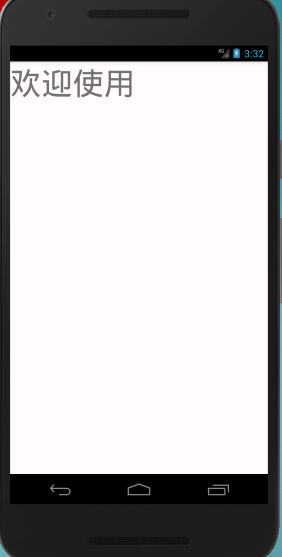
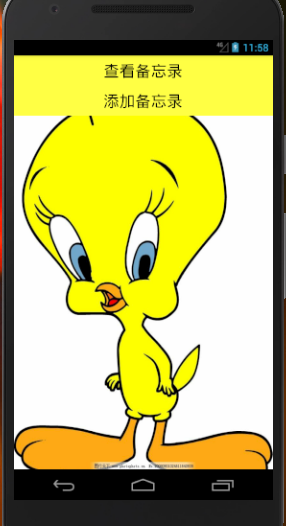
#4 the fourth lab

diff --git a/soft1614080902428/java/Soft1614080902428activityMain2Activity.java b/soft1614080902428/java/Soft1614080902428activityMain2Activity.java
@@ -16,6 +16,23 @@ public class Soft1614080902428activityMain2Activity extends AppCompatActivity {
     protected void onCreate(Bundle savedInstanceState) {
         super.onCreate(savedInstanceState);
         setContentView(R.layout.soft1614080902428activity_main2);
+        Button button1=(Button) findViewById( R.id.btn1_editnote);
+        button1.setOnClickListener(new View.OnClickListener(){
+            @Override
+            public void onClick(View v) {
+                Intent intent=new Intent(Soft1614080902428activityMain2Activity.this,chakan.class);
+                startActivity(intent);
+            }
+        });
+        Button button2=(Button)findViewById(R.id.btn2_editnote);
+        button2.setOnClickListener(new View.OnClickListener(){
+            @Override
+            public void onClick(View v) {
+                Intent intent=new Intent();
+                intent.setClass(Soft1614080902428activityMain2Activity.this,xiugai.class);
+                startActivity(intent);
+            }
+        });
     }
 
 }

diff --git a/soft1614080902428/java/xiugai.java b/soft1614080902428/java/xiugai.java
@@ -1,0 +1,18 @@
+package com.hzu.edu.myapplication;
+
+import android.os.Bundle;
+import android.support.design.widget.FloatingActionButton;
+import android.support.design.widget.Snackbar;
+import android.support.v7.app.AppCompatActivity;
+import android.support.v7.widget.Toolbar;
+import android.view.View;
+
+public class xiugai extends AppCompatActivity {
+
+    @Override
+    protected void onCreate(Bundle savedInstanceState) {
+        super.onCreate(savedInstanceState);
+        setContentView(R.layout.activity_xiugai);
+    }
+
+}

diff --git a/soft1614080902428/java/Soft1614080902428activityMain1Activity.java b/soft1614080902428/java/Soft1614080902428activityMain1Activity.java
@@ -14,7 +14,7 @@ public class Soft1614080902428activityMain1Activity extends AppCompatActivity {
         super.onCreate(savedInstanceState);
         setContentView(R.layout.soft1614080902428activity_main1);
         final Activity thisActivity=this;
-        Button btnHome=(Button) findViewById(R.id.btn01);
+        Button btnHome=(Button) findViewById( R.id.btn01);
         btnHome.setOnClickListener(new View.OnClickListener(){
             @Override
             public void onClick(View v) {

diff --git a/soft1614080902428/java/chakan.java b/soft1614080902428/java/chakan.java
@@ -1,0 +1,14 @@
+package com.hzu.edu.myapplication;
+
+import android.os.Bundle;
+import android.support.v7.app.AppCompatActivity;
+
+public class chakan extends AppCompatActivity {
+
+    @Override
+    protected void onCreate(Bundle savedInstanceState) {
+        super.onCreate(savedInstanceState);
+        setContentView(R.layout.activity_chakan);
+    }
+
+}

diff --git a/soft1614080902428/#3 第三次实验报告.md b/soft1614080902428/#3 第三次实验报告.md
@@ -1,27 +1,25 @@
 # 第三次实验 
+掌握在Android应用中使用图片等资源的方法。
 ## 1. 实验目标
- 掌握在Android应用中使用图片等资源的方法。
+1    在界面上显示至少一张图片（按照自己的题目添加）；  
+2    提交res/drawable及图片使用的代码；  
+3    提交res/values, res/layout等其他代码；  
+4    将应用运行结果截图，放到实验报告中；  
+5    点击图片（或按钮）时，打开另一个Activity。  
 ## 2. 实验步骤
-阅读实验要求：https://github.com/hzuapps/android-labs-2018/labels/Lab
- 
-在电脑上Android Studio编写代码
- 
- // 代码要可以运行！
- 使用Git将代码提交到自己的库中：https://github.com/WLIYUN/android-labs-2018
- $ git pull
- $ git add 学号目录/*
- $ git commit "#12345678 "
- $ git push
- 在自己的GitHub库上创建和发送Pull Request（注意查看Changed files）
- // 是否只修改了自己的文件？
- 在GitHub中使用Markdown文件编写实验报告（report1.md, report2.md）
- // 保存在自己的文件夹下
+
+1   统一步骤：  
+    https://github.com/hzuapps/android-labs-2018/blob/master/labs-steps.md  
+2   Android 在TextView 中显示图片的4种方式：  
+    https://blog.csdn.net/u012724237/article/details/79010741  
+
+
 ## 3. 实验结果
 
- app运行看见第一个Activity:
+# app运行看见第一个Activity:
 https://github.com/WLIYUN/android-labs-2018/blob/master/soft1614080902428/Soft1614080902428activity1.PNG
 
- 点击"首页"按钮后调到另一个Activity：
+# 点击"首页"按钮后调到另一个Activity：
 https://github.com/WLIYUN/android-labs-2018/blob/master/soft1614080902428/Soft1614080902428activity2.PNG
 
 ## 4. 实验体会
